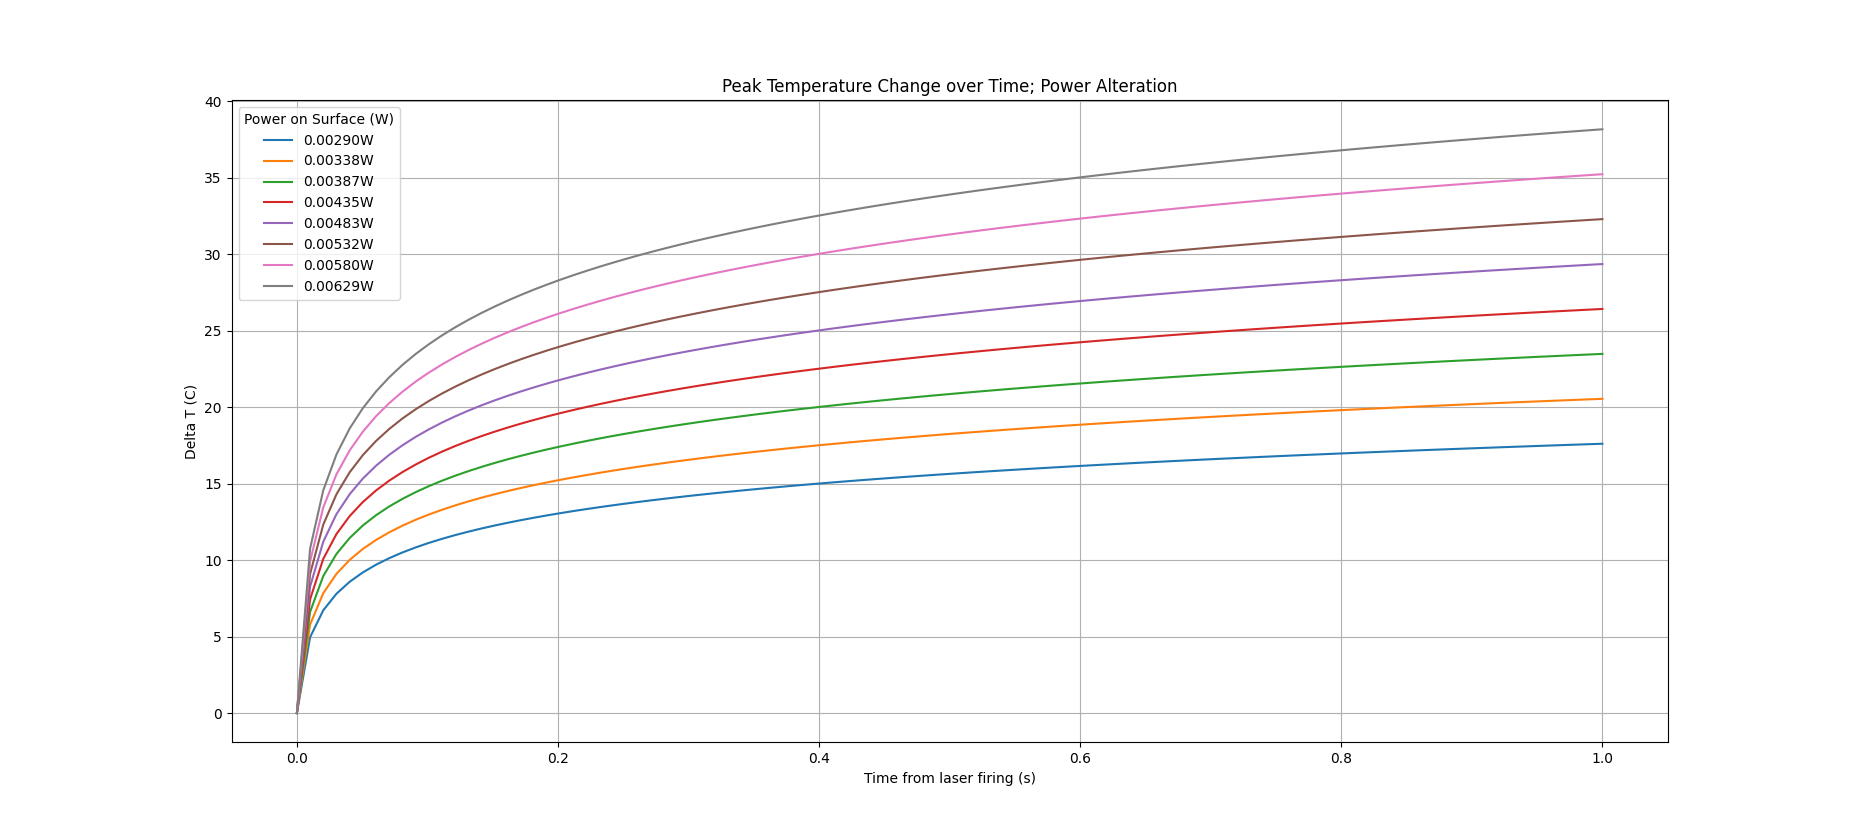
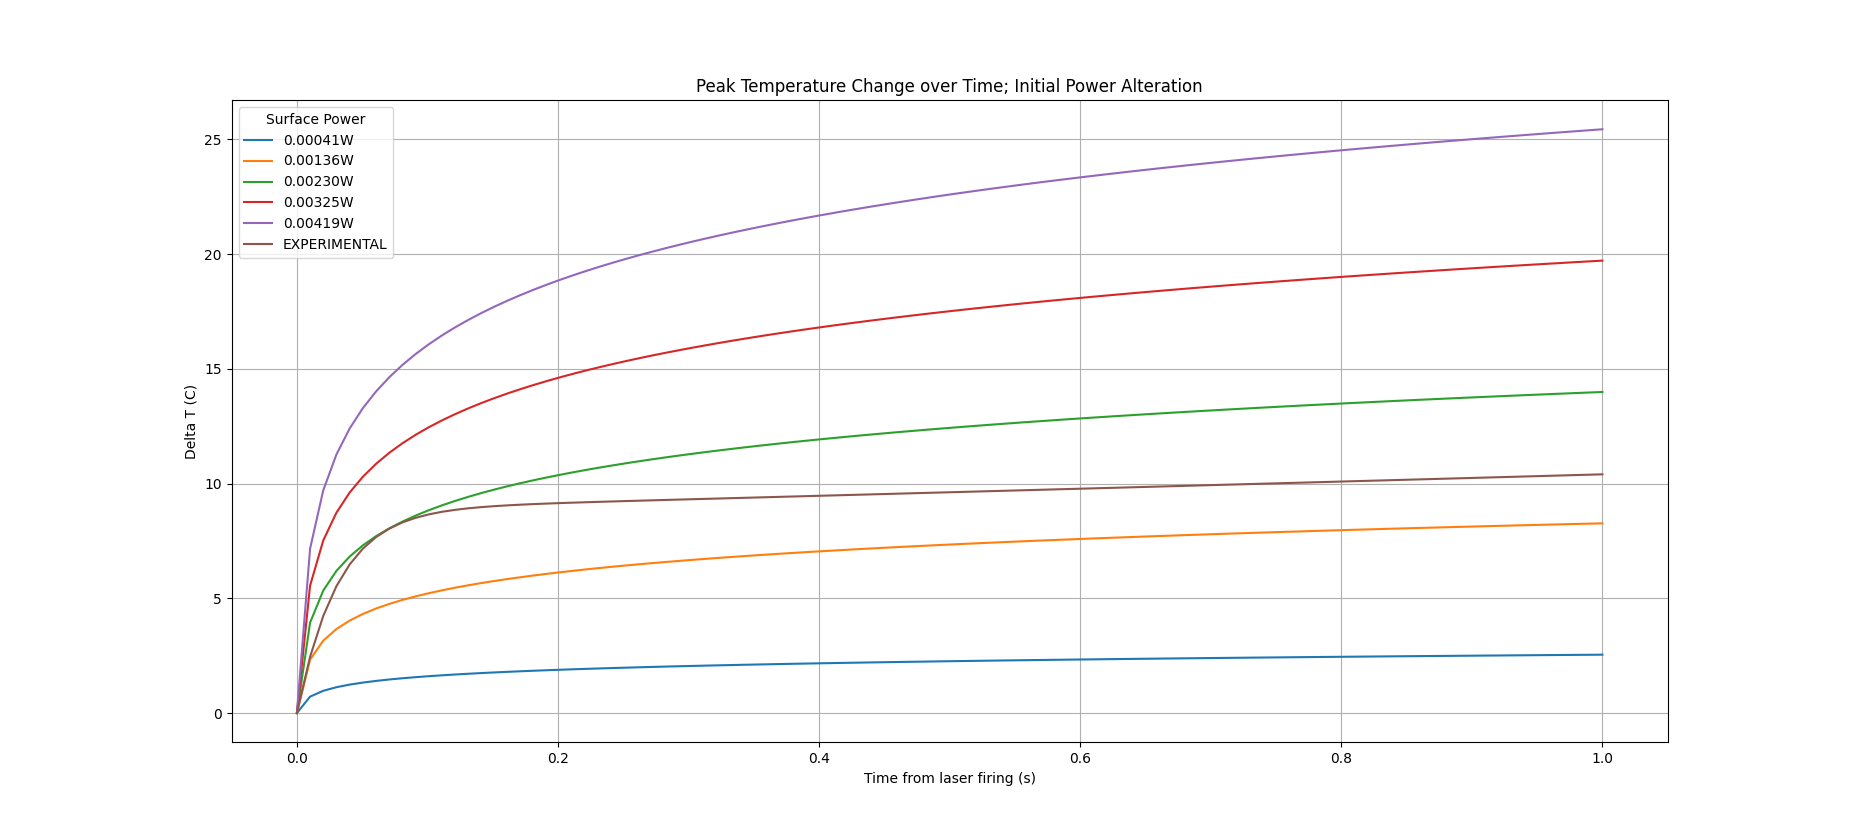
bad error

diff --git a/python/tempEQoverTime.py b/python/tempEQoverTime.py
@@ -2,6 +2,7 @@ import scipy.integrate as integrate
 import matplotlib.pyplot as plt
 import math
 import numpy
+from sklearn.metrics import mean_absolute_error
 
 def integrand(x,tempC, lilR, bigR):
 	#print(bigR, " ", lilR, " ", tempC, " ", x )
@@ -9,6 +10,13 @@ def integrand(x,tempC, lilR, bigR):
 	
 	expBit = (-2*pow(lilR,2)) / (pow(bigR, 2) * c)
 	return (1/c)* math.exp(expBit)
+
+def MAPE(a, f):
+	error = 0
+	for i in range(1,len(a)):
+		diff = (abs(actualy[i] - dt[i])/(actualy[i]))
+		error = error + diff
+	return error/len(a)
 
 t0 = numpy.linspace(0, 1, 100) #s
 wavelength = 1994 * pow(10,-9) #m
@@ -26,31 +34,6 @@ z = 117.55 * pow(10,-6)#m
 #Z0 = numpy.linspace(1 * pow(10,-6), 200 * pow(10,-6), 10)
 r = 25.18 * pow(10,-6) #m
 
-for P in P0:
-	dt = []
-	tc = pow(R,2) *c* p /(4*k)
-
-	for t in t0:
-		P1 = P * math.exp(-ua*z)
-		insideIntegral,error = integrate.quad(integrand, 0, t, args = (tc,r, R,))
-		constantBeforeIntegral = (2* ua * P1) / (p*c*pi*pow(R,2))
-		dt.append(insideIntegral*constantBeforeIntegral)
-
-	plt.plot(t0, dt, label = (str(P1 )[0:7] + 'W'))
-	plt.xlabel('Time from laser firing (s)')
-	plt.ylabel('Delta T (C)')
-	plt.title('Peak Temperature Change over Time; Initial Power Alteration')
-	plt.grid(True)
-
-	#s = 'Power On Surface = ' + str(P1)[0:6] + 'W'
-	#plt.text(.4,max(dt)*.3,s)
-
-	#s = 'Optical Absorbtion Coeff = ' + str(u)[0:4] + 'm^-1'
-	#plt.text(.4,max(dt)*.2,s)
-
-	#s = 'lambda = ' + str(wavelength*pow(10,9))[0:4] + 'nm'
-	#plt.text(.4,max(dt)*.1,s)
-
 
 time = numpy.linspace(200,700, 100)
 actualy = []
@@ -65,5 +48,26 @@ for ay in actualy:
 	dy.append(ay-base)
 
 plt.plot(numpy.linspace(0,1, 100), dy, label = 'EXPERIMENTAL')
+
+
+
+for P in P0:
+	dt = []
+	tc = pow(R,2) *c* p /(4*k)
+
+	for t in t0:
+		P1 = P * math.exp(-ua*z)
+		insideIntegral,error = integrate.quad(integrand, 0, t, args = (tc,r, R,))
+		constantBeforeIntegral = (2* ua * P1) / (p*c*pi*pow(R,2))
+		dt.append(insideIntegral*constantBeforeIntegral)
+
+
+	plt.plot(t0, dt, label = (str(P1)[0:7] + 'W' + ', error = ' + str(MAPE(actualy,dt) * 100)[0:5]) + '%')
+
+
+plt.xlabel('Time from laser firing (s)')
+plt.ylabel('Delta T (C)')
+plt.title('Peak Temperature Change over Time; Initial Power Alteration')
+plt.grid(True)
 plt.legend(title = 'Surface Power')
 plt.show()
